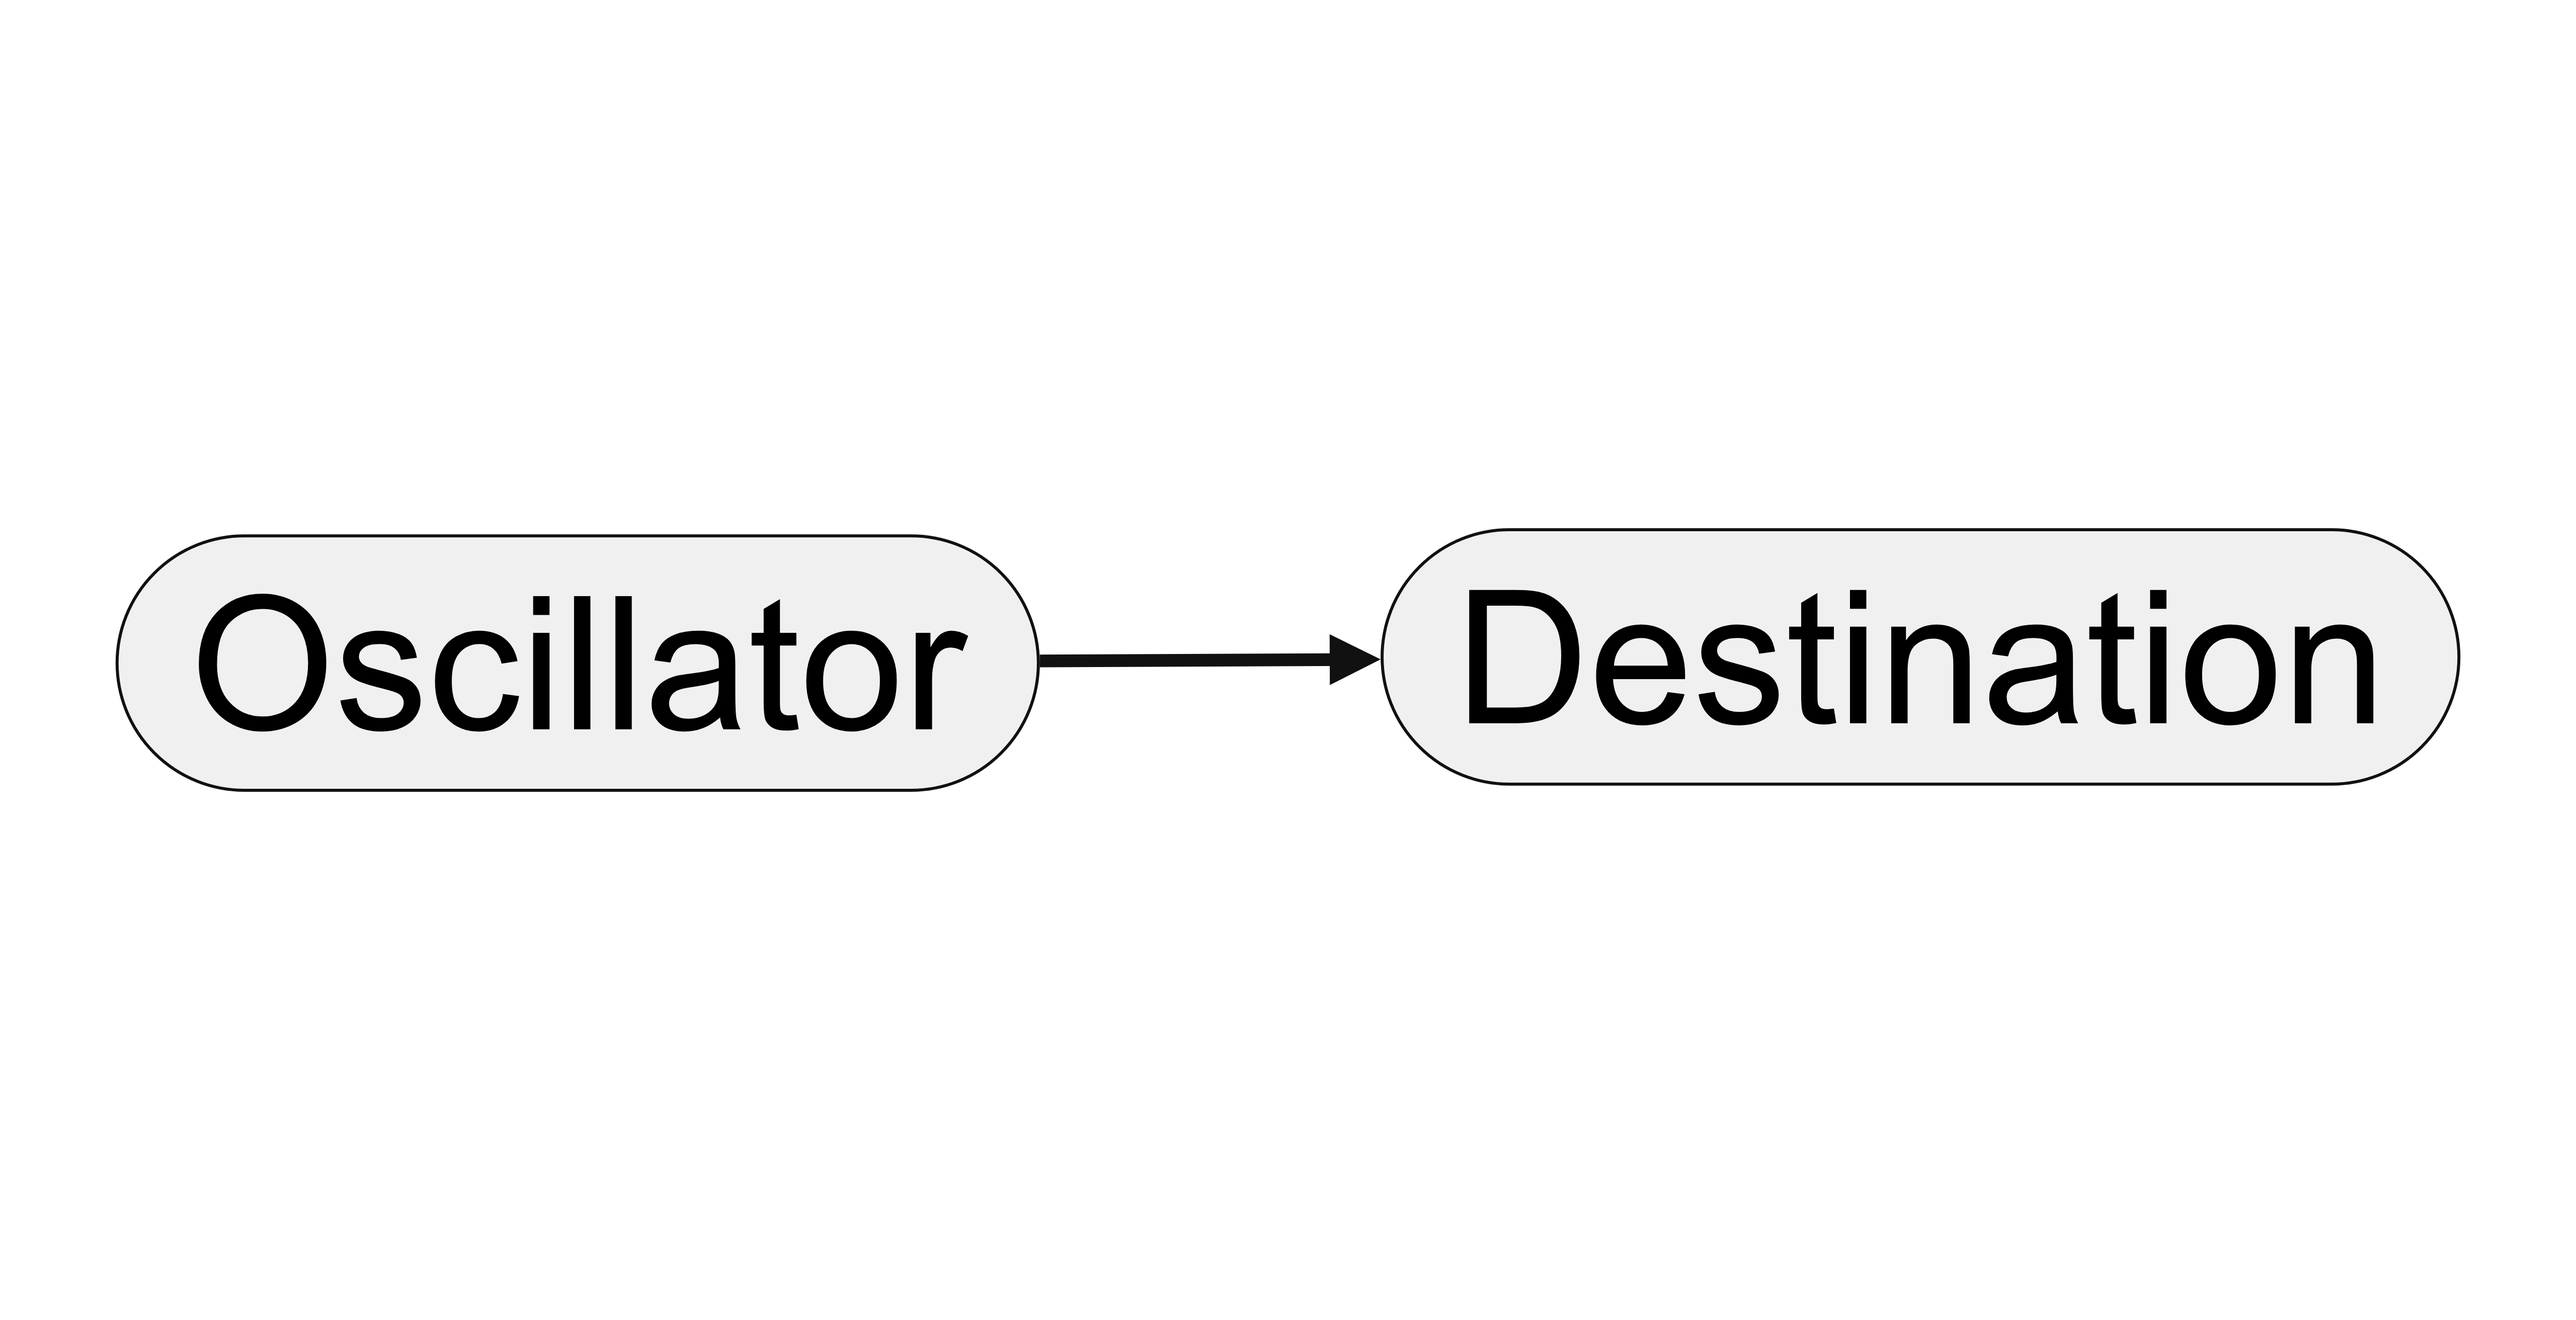
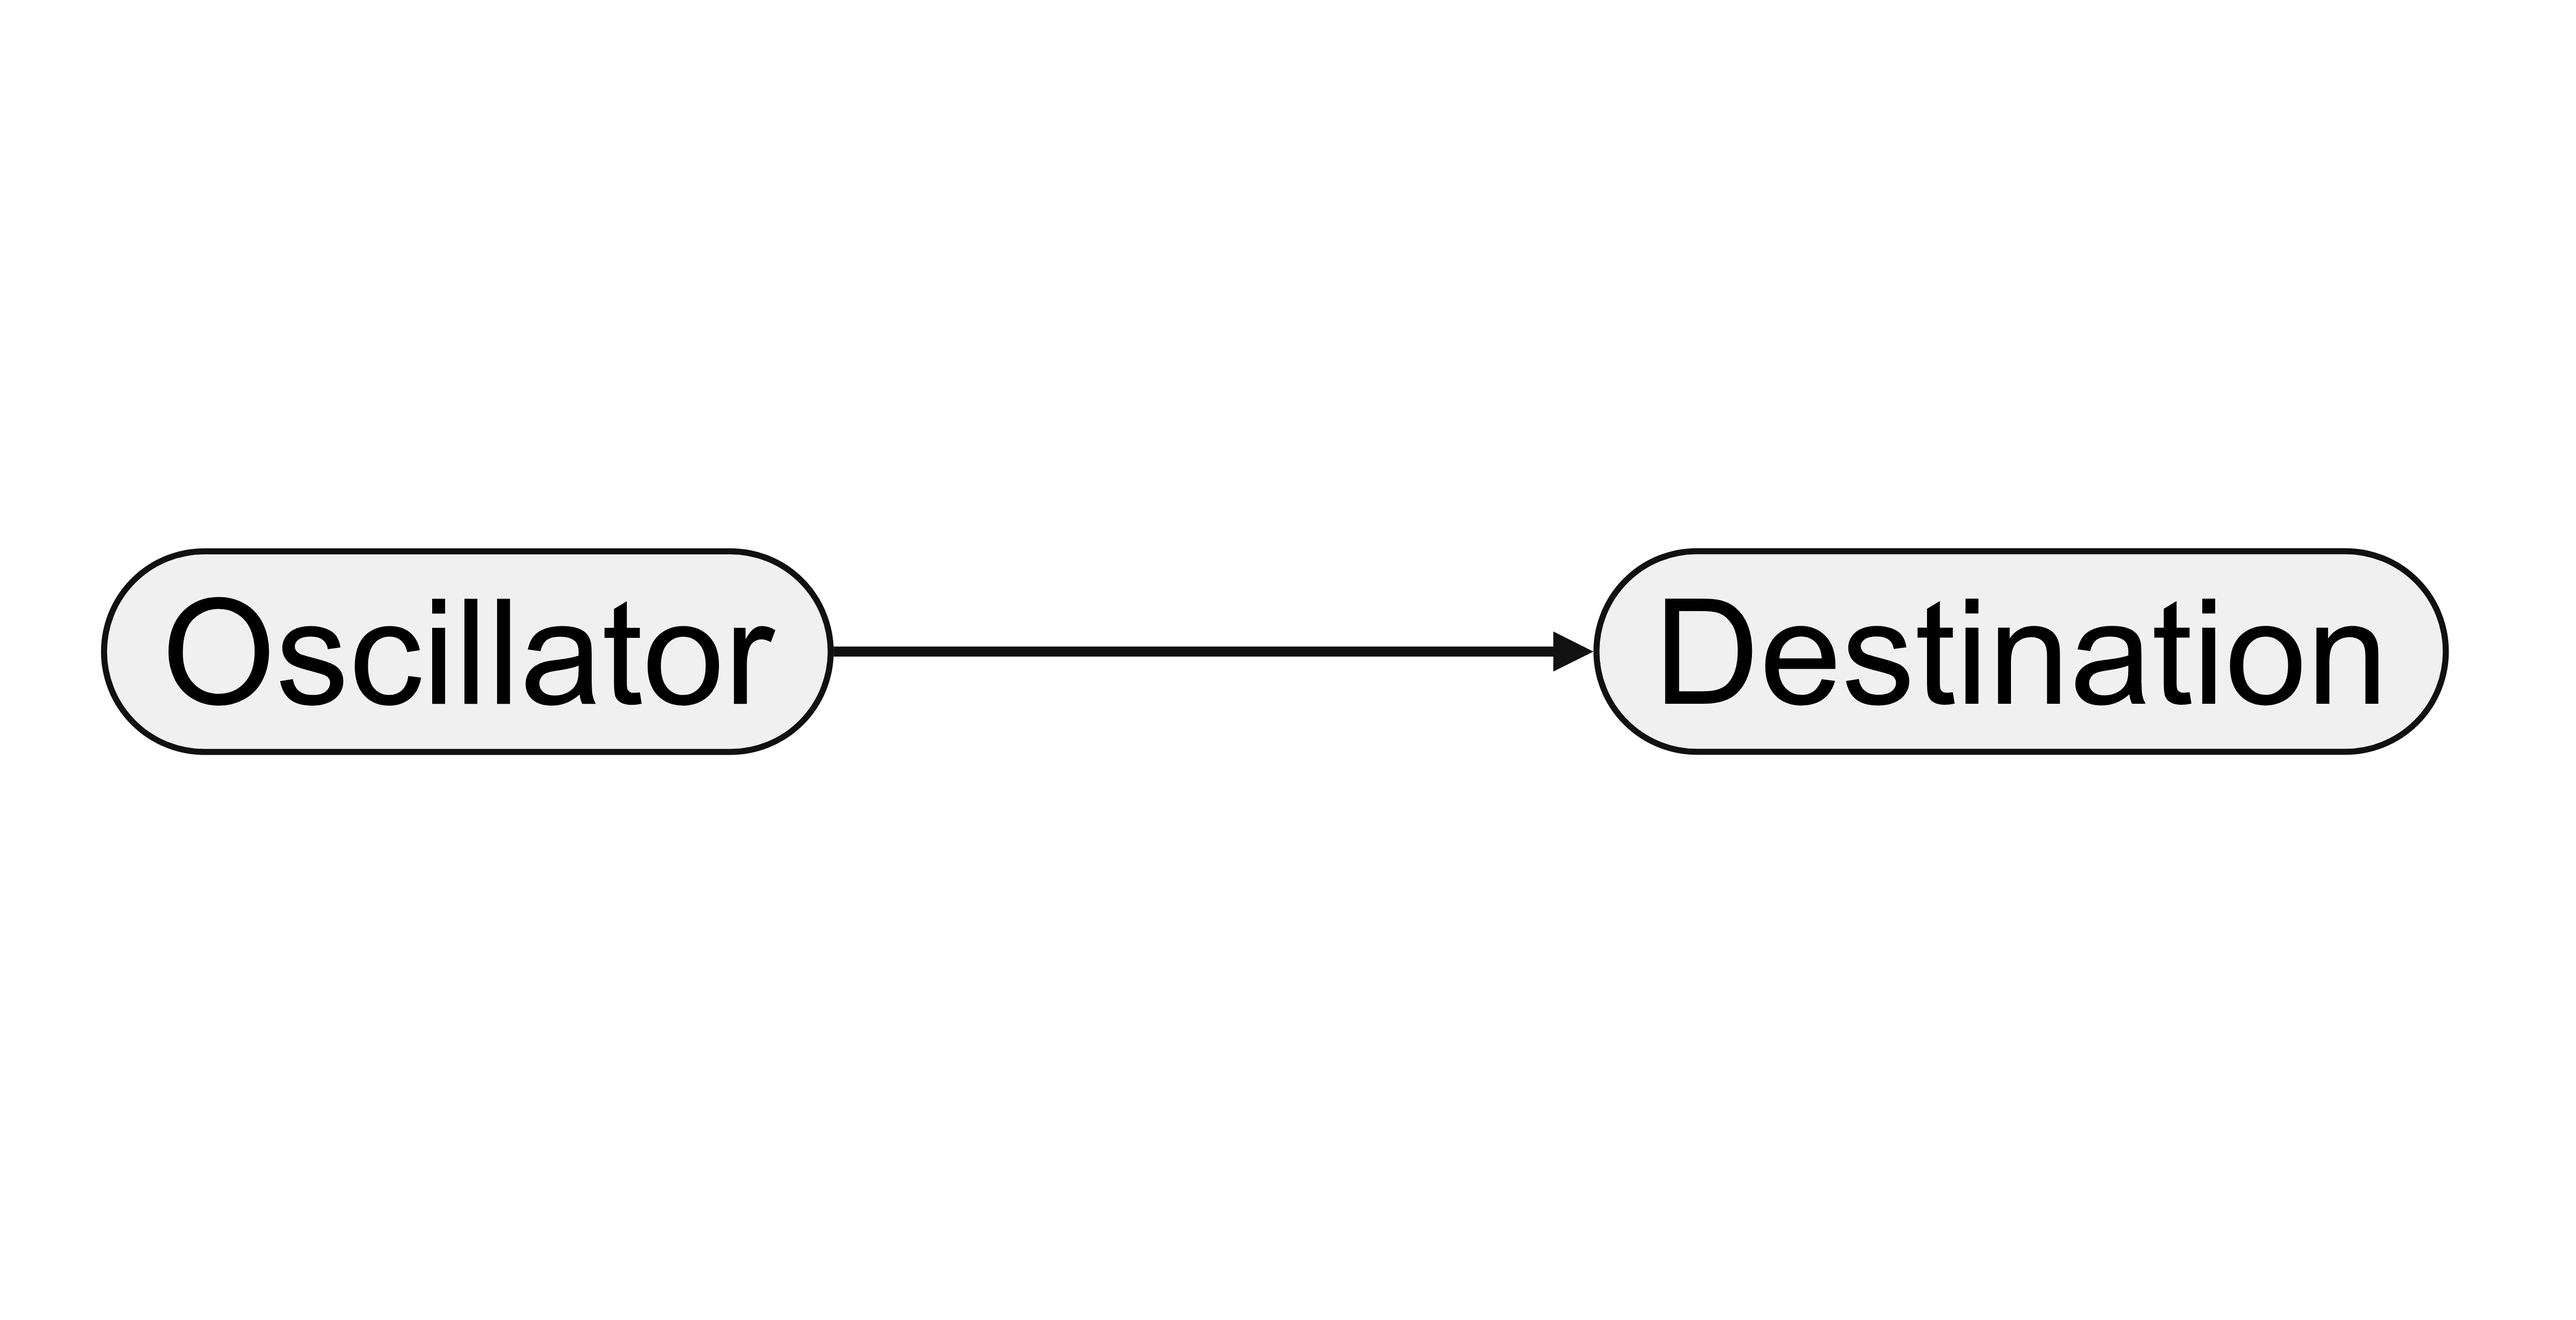
Add oscillator slides

Changed region(s): [[0.0312, 0.4062, 0.9688, 0.5938]]

diff --git a/css/theme/template/theme.css b/css/theme/template/theme.css
@@ -162,11 +162,11 @@ body {
 .reveal pre {
   display: block;
   position: relative;
-  width: 90%;
+  width: 95%;
   margin: var(--blockMargin) auto;
 
   text-align: left;
-  font-size: 0.55em;
+  font-size: 0.5em;
   font-family: var(--codeFont);
   line-height: 1.2em;
 

diff --git a/slides.md b/slides.md
@@ -83,17 +83,72 @@ const destination = audioContext.destination
 
 ---
 
-![](assets/oscillator.png) <!-- .element: width="50%" class="plain" -->
+Adding a track for your instrument
 
 ```js
-this.oscillator = this.audioContext.createOscillator()
-this.oscillator.connect(this.destination)
-this.oscillator.start()
+// src/music/songs/Workshop1907.js
+
+import Song from '../common/Song'
+import Oscillator from '../instruments/demo/Oscillator'
+
+export default class Workshop1907 extends Song {
+  tempo = 140
+  notesPerBeat = 2
+  tracks = [
+    {
+      instrument: new Oscillator(this.audioContext, this.destination),
+    },
+  ]
+}
+```
+
+---
+
+## Let's make some noise!
+
+![](assets/create-sound.jpg) <!-- .element: class="plain" width="90%" -->
+
+---
+
+![](assets/oscillator.png) <!-- .element: width="90%" style="margin: -15% 0" class="plain" -->
+
+```js
+// src/music/instruments/Oscillator.js
+
+import Instrument from '../../common/Instrument'
+
+export default class Oscillator extends Instrument {
+  start() {
+    this.oscillator = this.audioContext.createOscillator()
+    this.oscillator.frequency.value = 375
+    this.oscillator.connect(this.destination)
+    this.oscillator.start()
+  }
+
+  stop() {
+    this.oscillator.stop()
+  }
+}
 ```
 
 ---
 
 <!-- .slide: data-background-iframe="http://localhost:8080/Demo/1" data-background-interactive -->
+
+---
+
+<!-- .element: data-line-numbers="2" -->
+
+<pre><code class="js" data-line-numbers="2">this.oscillator = this.audioContext.createOscillator()
+this.oscillator.type = 'square' // or sine, triangle, sawtooth, custom
+this.oscillator.frequency.value = 375
+this.oscillator.connect(this.destination)
+this.oscillator.start()
+</code></pre>
+
+---
+
+<!-- .slide: data-background-iframe="http://localhost:8080/Demo/2" data-background-interactive -->
 
 ---
 
